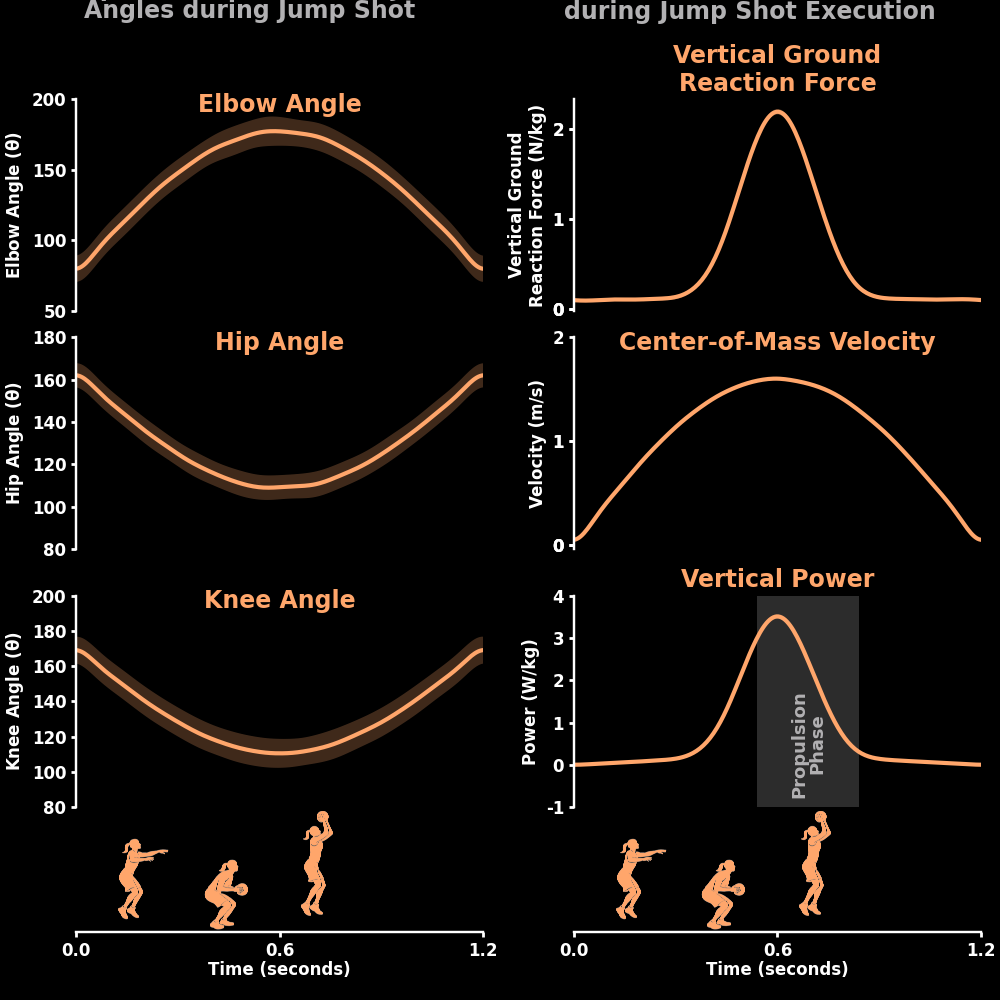
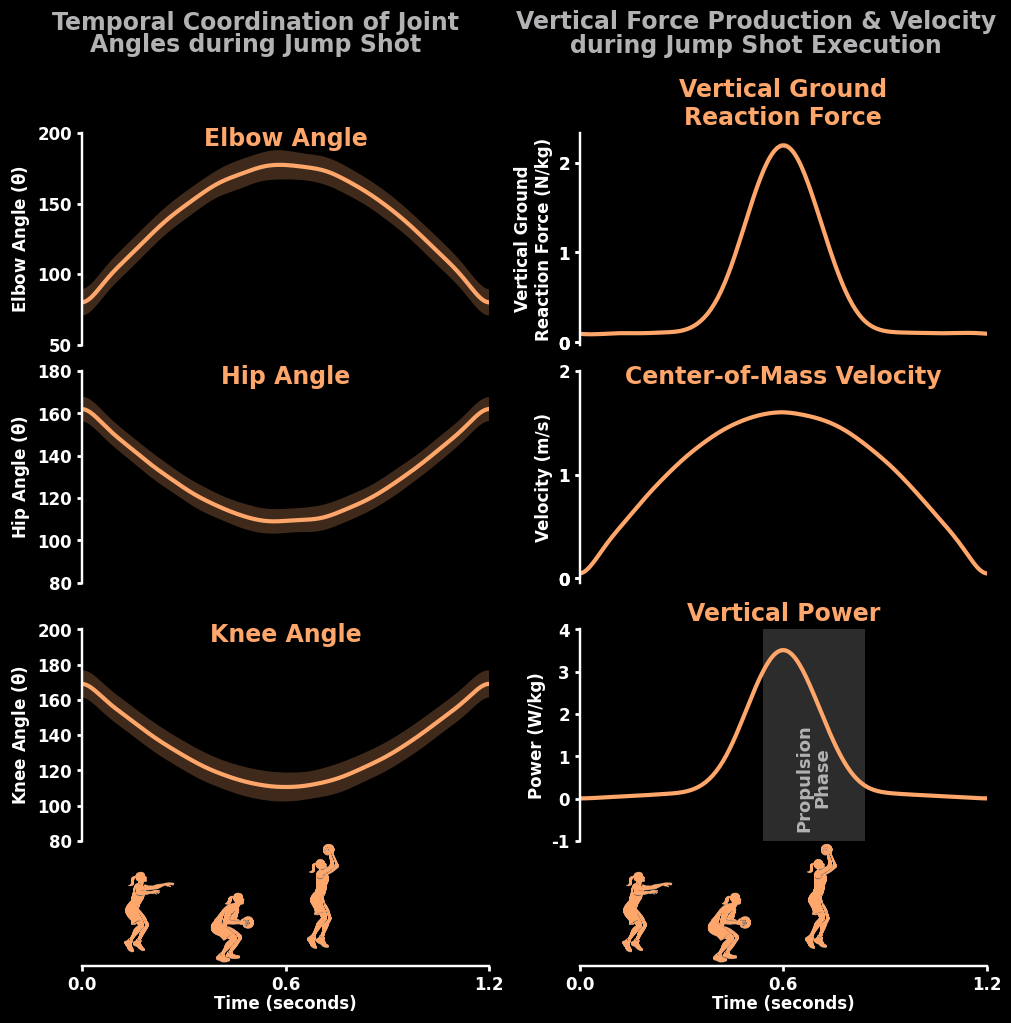
fixed scripts so they run in jupyter notebook with sizing shown in figures folder

diff --git a/src/biomechanics_figure_panel_functions.py b/src/biomechanics_figure_panel_functions.py
@@ -54,11 +54,11 @@ def sprint_acceleration(graph_color = wheel.powder_blue):
 
     ax['title'].set_axis_off()
 
-    fig.text(.25,1, "Temporal Coordination of Lower-Body\nJoints during Sprint Acceleration", ha='center', va='center', 
+    fig.text(.25,0.8, "Temporal Coordination of Lower-Body\nJoints during Sprint Acceleration", ha='center', va='center', 
             fontsize=fs_title, weight='bold', linespacing=0.9, color=annotation_color)
 
 
-    fig.text(.75,1, "Force Application &\nVelocity Development\nduring Early Sprint Acceleration", ha='center', va='center', 
+    fig.text(.75,0, "Force Application &\nVelocity Development\nduring Early Sprint Acceleration", ha='center', va='center', 
             fontsize=fs_title, weight='bold', linespacing=1, color=annotation_color)
 
 
@@ -190,11 +190,11 @@ def pitching_mechanics(graph_color = wheel.bubblegum):
 
     ax['title'].set_axis_off()
 
-    fig.text(.25,1, "Temporal Joint Kinematics\n during a Ball Pitch", ha='center', va='center', 
+    fig.text(.25,0.8, "Temporal Joint Kinematics\n during a Ball Pitch", ha='center', va='center', 
             fontsize=fs_title, weight='bold', linespacing=0.9, color=annotation_color)
 
 
-    fig.text(.75,1, "Mechanical Loading Metrics\nRelevant to Injury Risk\nduring Pitching", ha='center', va='center', 
+    fig.text(.75,0, "Mechanical Loading Metrics\nRelevant to Injury Risk\nduring Pitching", ha='center', va='center', 
             fontsize=fs_title, weight='bold', linespacing=1, color=annotation_color)
 
 
@@ -340,11 +340,11 @@ def jump_shot_initiation(graph_color = wheel.orange_creamsicle):
 
     ax['title'].set_axis_off()
 
-    fig.text(.25,1, "Temporal Coordination of Joint\nAngles during Jump Shot", ha='center', va='center', 
+    fig.text(.25,0.8, "Temporal Coordination of Joint\nAngles during Jump Shot", ha='center', va='center', 
             fontsize=fs_title, weight='bold', linespacing=0.9, color=annotation_color)
 
 
-    fig.text(.75,1, "Vertical Force Production & Velocity\nduring Jump Shot Execution", ha='center', va='center', 
+    fig.text(.75,0, "Vertical Force Production & Velocity\nduring Jump Shot Execution", ha='center', va='center', 
             fontsize=fs_title, weight='bold', linespacing=1, color=annotation_color)
 
 
@@ -402,7 +402,7 @@ def jump_shot_initiation(graph_color = wheel.orange_creamsicle):
     ax['vertical_grf_N_per_kg'].set_title("Vertical Ground\nReaction Force", weight='bold', fontsize=fs_title, c=graph_color)
     ax['vertical_grf_N_per_kg'].set_ylabel("Vertical Ground\nReaction Force (N/kg)", weight='bold', fontsize=fs)
 
-    ax['com_velocity_m_per_s'].set_title("Center-of-Mass Velocity", weight='bold', fontsize=fs_title, c=graph_color, y=title_y_pos)
+    ax['com_velocity_m_per_s'].set_title("Center-of-Mass Velocity", weight='bold', fontsize=fs_title, c=graph_color, y=1.2)
     ax['com_velocity_m_per_s'].set_ylabel("Velocity (m/s)", weight='bold', fontsize=fs)
 
     ax['power_W_per_kg'].set_title("Vertical Power", weight='bold', fontsize=fs_title, c=graph_color)

diff --git a/jump_shot_initiation.py b/jump_shot_initiation.py
@@ -8,6 +8,8 @@ from src.ColorWheel import ColorWheel
 wheel = ColorWheel()
 from src.ChatCSV import butter_lowpass_filter, process_csv_from_chat
 
+graph_color = wheel.orange_creamsicle
+
 def remove_offset_from_early_window(df, pct=0.08):
     grf_col = "vertical_grf_N_per_kg"
     t0 = df["time_s"].min()
@@ -16,7 +18,6 @@ def remove_offset_from_early_window(df, pct=0.08):
     df[grf_col] = (df[grf_col] - baseline).clip(lower=0)
     return df
 
-graph_color = wheel.orange_creamsicle
 
 jump_shot_phases = ['flight','loading','propulsion']
 icon_dict = dict()

diff --git a/pitching_mechanics.py b/pitching_mechanics.py
@@ -8,8 +8,6 @@ from src.ColorWheel import ColorWheel
 wheel = ColorWheel()
 from src.ChatCSV import butter_lowpass_filter, process_csv_from_chat
 
-
-
 graph_color = wheel.bubblegum
 
 filename_pitch = os.path.join(os.getcwd(), "mock_data", "mlb_pitching_biomechanics_temporal_dataset.csv")

diff --git a/x_axis_drawing.py b/x_axis_drawing.py
@@ -1,0 +1,4 @@
+jump_shot_phases = ['flight','loading','propulsion']
+icon_dict = dict()
+for phases in jump_shot_phases:
+    icon_dict[phases] = wheel.recolor_icons(os.path.join(os.getcwd(),'icons', 'jump_shot_' + phases + '.png'), graph_color)
